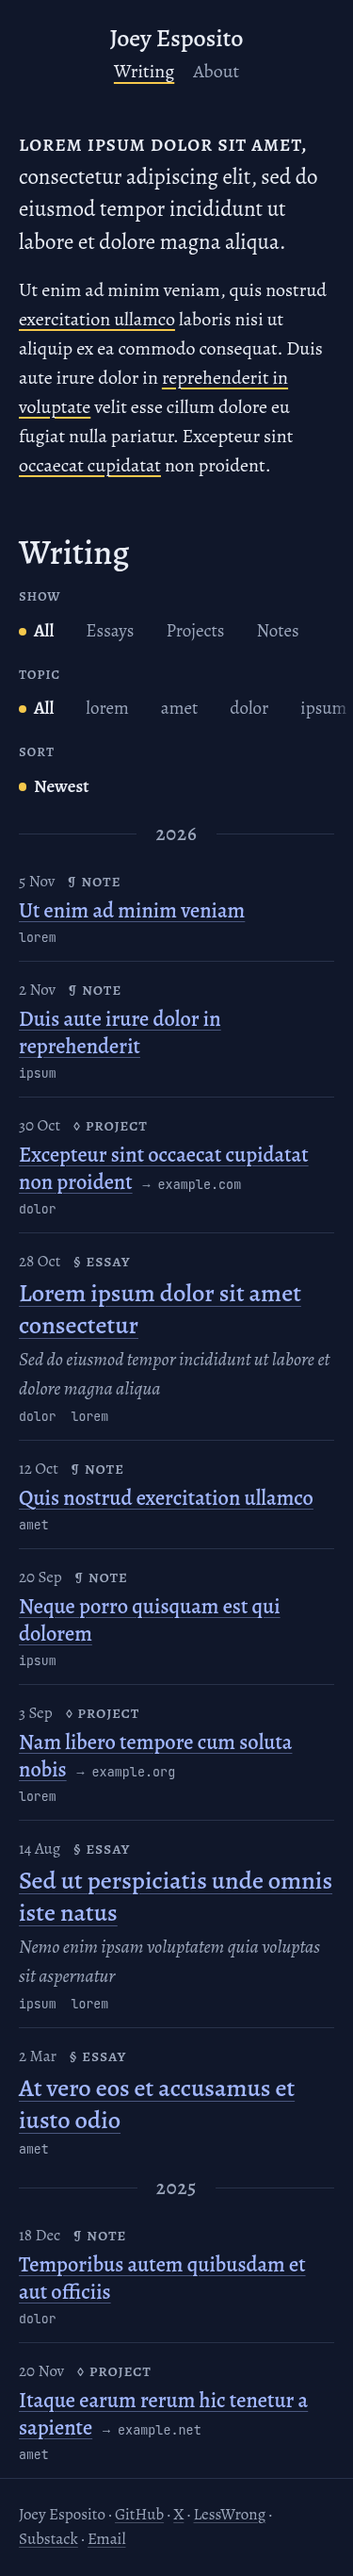
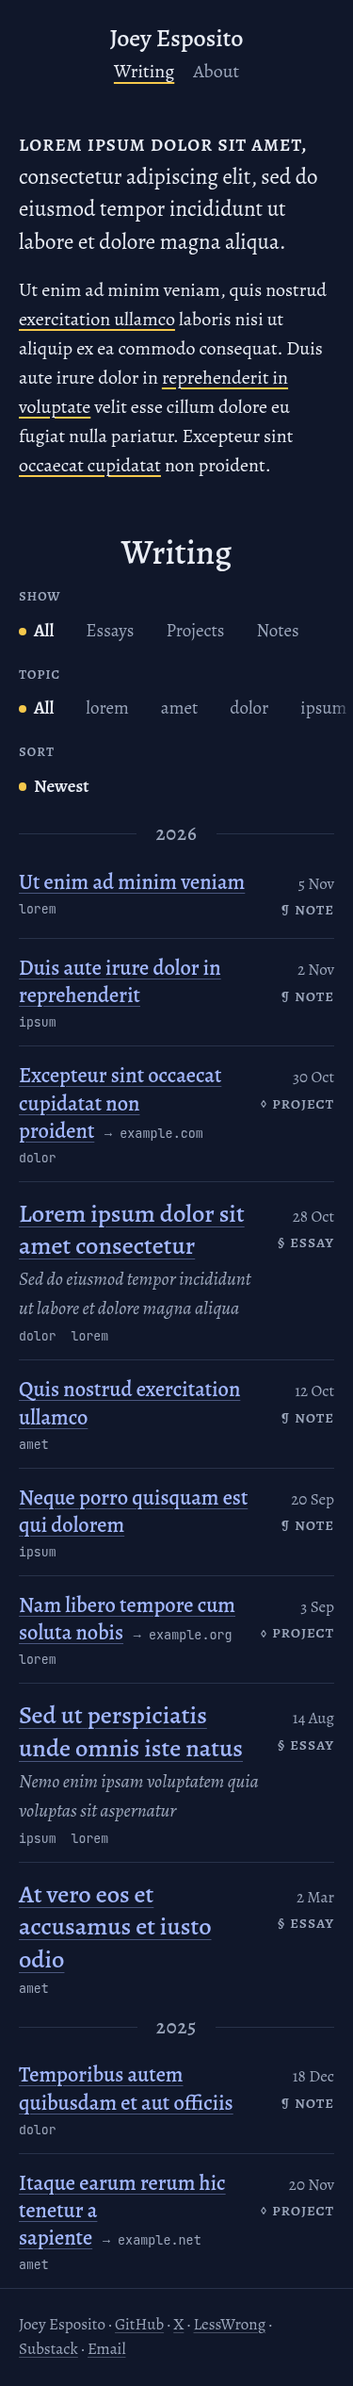
On phones, centre the Writing heading and set dates and types at the right

diff --git a/src/styles/global.css b/src/styles/global.css
@@ -161,6 +161,8 @@ body:has(.prose-page) .site-footer { margin-top: 2rem; }
 .intro a:hover { background: var(--hl); }
 
 .writing-title { font-size: 1.8rem; margin: 0 0 0.6rem; }
+/* Centred under the centred header on narrow screens; in the wide layout it heads the column. */
+@media not all and (min-width: 80rem) { .writing-title { text-align: center; } }
 
 .filters fieldset { min-width: 0; margin: 0; padding: 0; border: 0; }
 .filters legend { padding: 0; color: var(--muted); }
@@ -211,12 +213,15 @@ body:has(.prose-page) .site-footer { margin-top: 2rem; }
 /* A year's divider closes the year before it, so the entry above it needs no rule. */
 .entry:has(+ .year) { border-bottom: 0; }
 
-.entry { padding: 0.8rem 0; border-bottom: 1px solid var(--rule); }
+/* On phones the title column comes first and the date and type stand at the right, level with
+   the title's first line; from 40rem the date column moves to the left. */
+.entry { display: grid; grid-template-columns: minmax(0, 1fr) auto; align-items: first baseline; column-gap: 1rem; padding: 0.8rem 0; border-bottom: 1px solid var(--rule); }
 /* The footer's rule closes the list, so the last entry needs none of its own. */
 .entry:last-child { border-bottom: 0; }
-.entry .meta { display: flex; flex-wrap: wrap; align-items: baseline; gap: 0 0.7rem; font-size: 0.85rem; color: var(--muted); }
+.entry .content { grid-column: 1; grid-row: 1; }
+.entry .meta { grid-column: 2; grid-row: 1; display: flex; flex-direction: column; align-items: flex-end; text-align: right; font-size: 0.85rem; color: var(--muted); }
 .entry .type { font-size: 0.9rem; }
-.entry h3 { font-size: 1.12rem; font-weight: 500; line-height: 1.3; margin: 0.1rem 0 0; }
+.entry h3 { font-size: 1.12rem; font-weight: 500; line-height: 1.3; margin: 0; }
 .entry.essay h3 { font-size: 1.32rem; }
 .entry .host { margin-left: 0.8em; font: 0.6em var(--font-mono); color: var(--muted); text-decoration: none; white-space: nowrap; }
 .entry .host:hover { color: var(--fg); text-decoration: underline 0.12em var(--sun); }
@@ -230,9 +235,9 @@ body:has(.prose-page) .site-footer { margin-top: 2rem; }
 .post-list[data-sort='popular'] .yr { display: inline; }
 
 @media (min-width: 40rem) {
-  .entry { display: grid; grid-template-columns: 5.5rem minmax(0, 1fr); column-gap: 1.25rem; }
-  .entry .meta { flex-direction: column; align-items: flex-end; gap: 0; padding-top: 0.12rem; text-align: right; }
-  .entry h3 { margin-top: 0; }
+  .entry { grid-template-columns: 5.5rem minmax(0, 1fr); align-items: start; column-gap: 1.25rem; }
+  .entry .meta { grid-column: 1; padding-top: 0.12rem; }
+  .entry .content { grid-column: 2; }
 }
 
 /* ---------- Posts ---------- */

diff --git a/DESIGN.md b/DESIGN.md
@@ -97,7 +97,7 @@ Meta 0.85–0.92rem. Inline code 0.8em; code blocks 0.72rem (14.4px).
 | Base layout | `src/layouts/Base.astro` | Head (title, description, canonical, Open Graph and Twitter card tags, feed discovery links, `rel="me"` profile links, a `head` slot), header, footer with profile links |
 | Intro | `src/components/Intro.astro` | Prose paragraph in Joey's voice. The first words are set in small capitals (`.lede strong`). Links are underlined in sunflower; topic links open the list pre-filtered (`/?tag=…#writing`). No drop cap. |
 | PostFilters | `src/components/PostFilters.astro` | Radio groups Show (All/Essays/Projects/Notes), Topic (tags by frequency), Sort (Newest/Most popular). The post count is read to screen readers but not shown, except to say view counts are loading or unavailable. Hidden until its script runs. A type with no posts in the chosen topic fades. State is mirrored in the query string, so filtered views are linkable. Sort always shows "Newest"; "Most popular" appears once `VIEWS_URL` is set, and fetches the view counts once, and if they fail to load the list falls back to newest and says so. |
-| PostList | `src/components/PostList.astro` | Year dividers (centred year between hairlines) and ruled entries, spaced alike; a year's divider takes the place of the rule under the entry above it, and the footer's rule closes the list: date column (date, type mark) and title column (title link, a project's "→ host" repo link in mono, essay subtitle in italic, topic links in mono). Sorted by views, the dividers disappear and each date shows its year. |
+| PostList | `src/components/PostList.astro` | Under a "Writing" heading (centred below 80rem). Year dividers (centred year between hairlines) and ruled entries, spaced alike. On phones (below 40rem) an entry's date and type stand at the right, level with the title's first line, and the title column is flush left; from 40rem the date column is on the left; a year's divider takes the place of the rule under the entry above it, and the footer's rule closes the list: date column (date, type mark) and title column (title link, a project's "→ host" repo link in mono, essay subtitle in italic, topic links in mono). Sorted by views, the dividers disappear and each date shows its year. |
 | Article | `src/components/Article.astro` | Post header (title, subtitle, meta line, epistemic status), contents, body, end mark, discussion links, citation, signup. |
 | Contents | `src/components/Contents.astro` | Essays with two or more headings. Box above the text on narrow screens; sticky right rail on wide ones. |
 | EndMark | `src/components/EndMark.astro` | Small sun between two short rules, closing an essay. |
